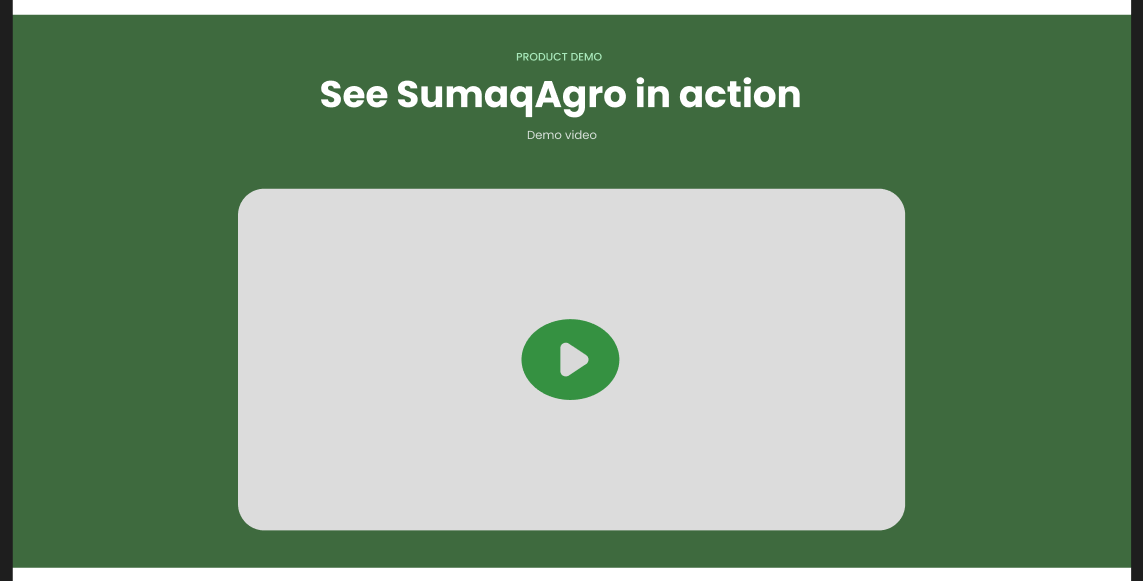
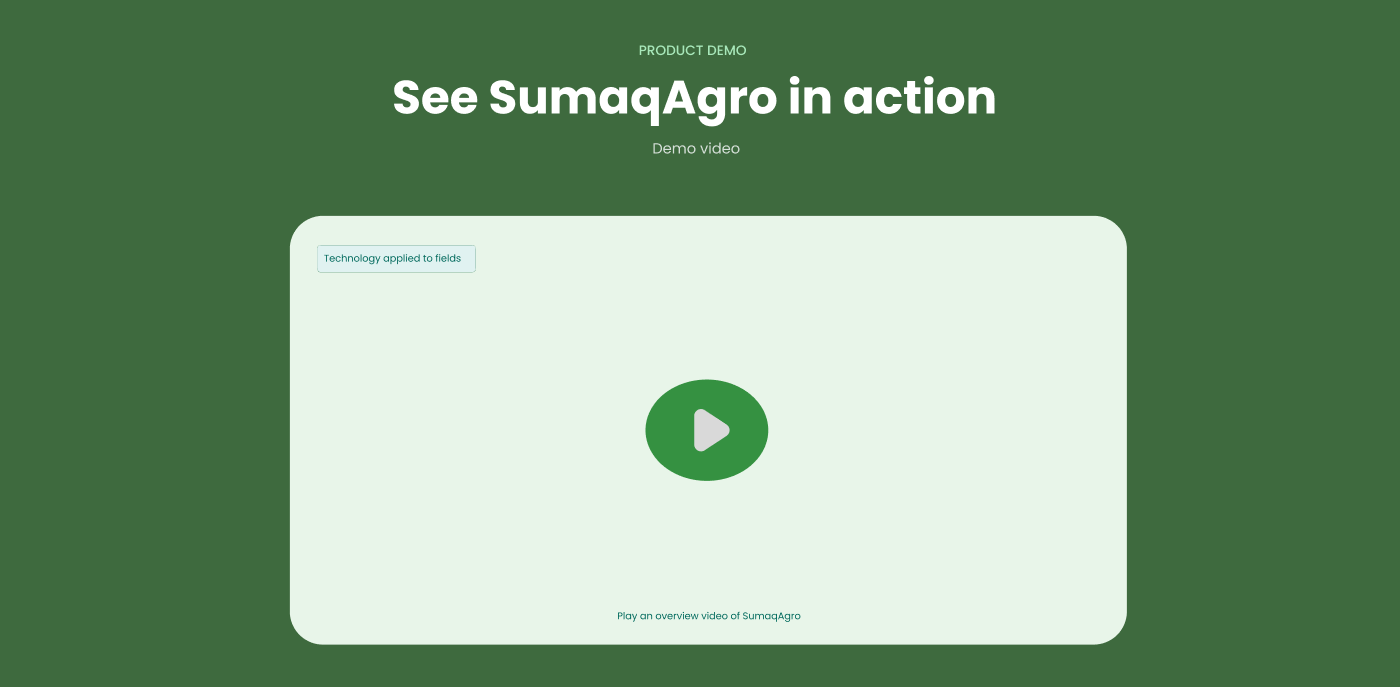
docs(cap4): update landing page demo and plans section images and content

diff --git a/report/40-chapter-4-design.md b/report/40-chapter-4-design.md
@@ -700,6 +700,18 @@ Presenta el encabezado "Solutions and Features" acompañado del lema de valor pa
 
 ![mockup-solutions-and-features.png](assets/img/chapter-4/landing-page/mock-up/desktop/mockup-solutions-and-features.png)
 
+**Product Demo — SumaqAgro**
+
+Presenta un fondo verde corporativo que enmarca el antetítulo "PRODUCT DEMO", el encabezado central "See SumaqAgro in action" y el subtítulo "Demo video". En la zona inferior destaca un reproductor de video de esquinas redondeadas sobre fondo gris claro con un botón central de reproducción (play) en verde brillante para visualizar la demostración interactiva de la plataforma.
+
+![mockup-product-demo.png](assets/img/chapter-4/landing-page/mock-up/desktop/mockup-product-demo.png)
+
+**Plans — SumaqAgro**
+
+Presenta el titular "Choose the plan that fits your needs" sobre el antetítulo "PLANS" y un conmutador de facturación mensual o anual con descuento. En la zona inferior dispone tres tarjetas de suscripción adaptadas a cada perfil: Seed Plan (gratuito, para 1 parcela con NDVI básico y registro de labores), Pro Cooperative (S/189/mes, destacado como el más popular para 50 productores con certificación y exportación de reportes) y Technical Advisor Plan (S/89/mes, para 20 fincas supervisadas con NDVI avanzado y recomendaciones), cada una con su respectivo botón de acción directo.
+
+![mockup-plans.png](assets/img/chapter-4/landing-page/mock-up/desktop/mockup-plans.png)
+
 ## 4.4. Web Applications UX/UI Design
 
 Esta sección presenta y sustenta la arquitectura de interacción y el diseño visual de la plataforma SaaS de SumaqAgro, desarrollada por la startup Dymbia.
